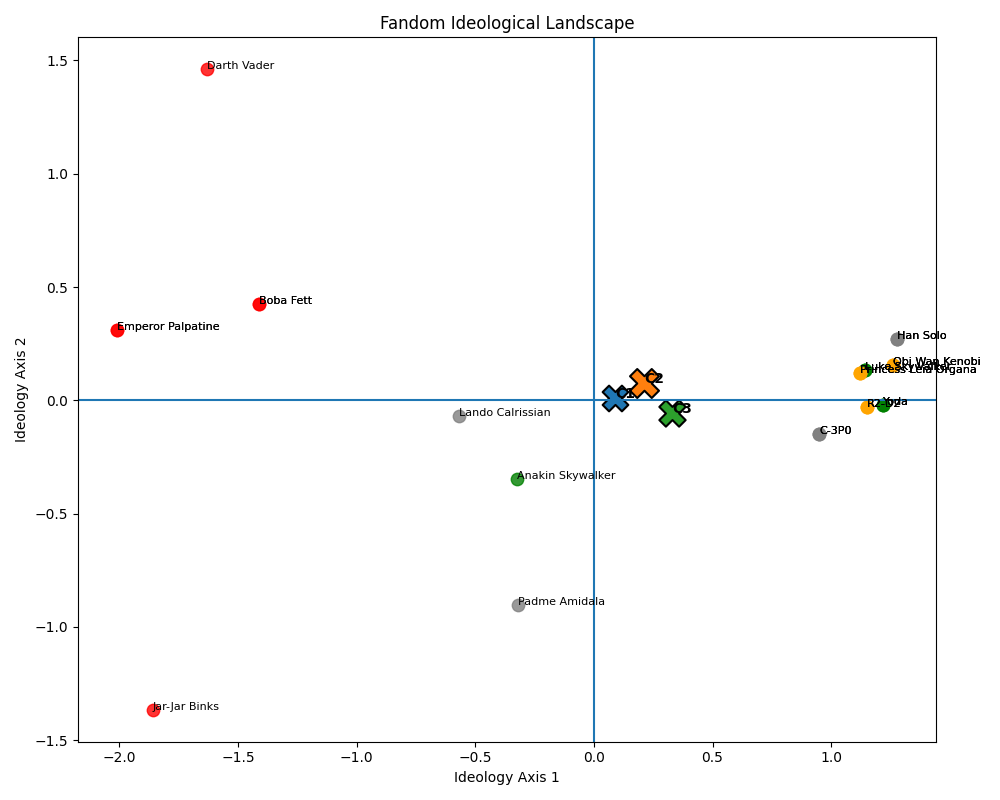
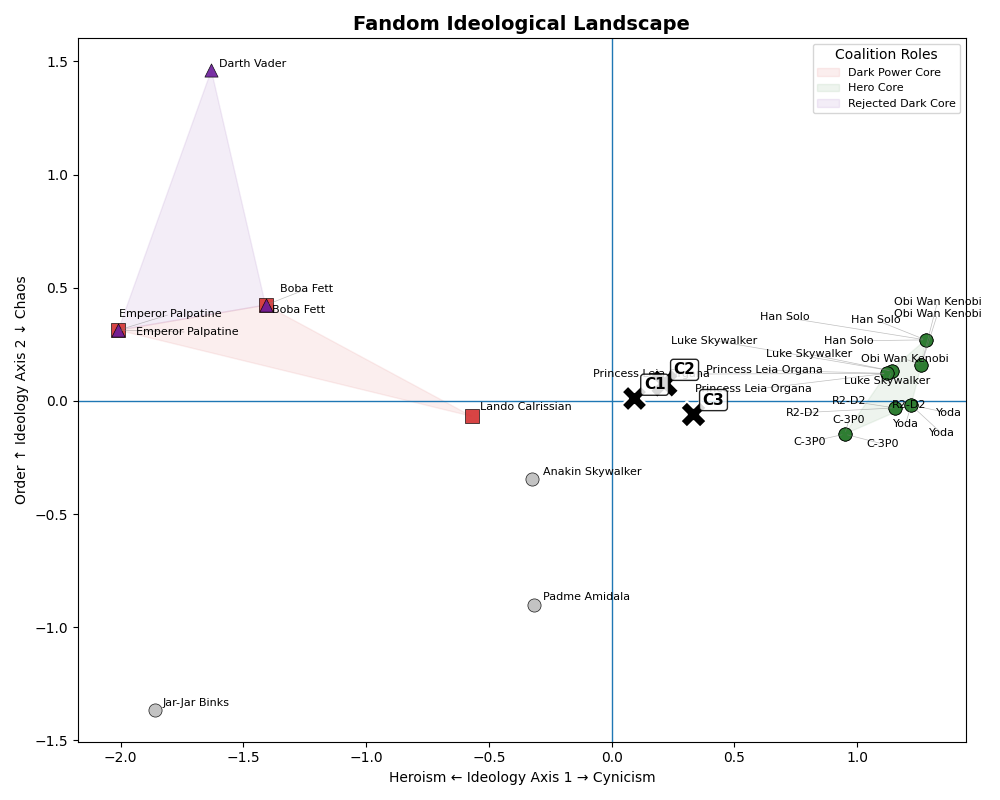
Doing 5.9.2

diff --git a/analysis/visualization/phase5_plots.py b/analysis/visualization/phase5_plots.py
@@ -6,6 +6,7 @@ import seaborn as sns
 import matplotlib.pyplot as plt
 from scipy.spatial import ConvexHull
 import numpy as np
+from adjustText import adjust_text
 
 
 from src.config import CHARACTER_RATING_COLUMNS
@@ -796,54 +797,106 @@ def plot_cluster_narrative_role_profiles(
     plt.savefig(output_path)
     plt.close()
 
-# analysis/visualization/phase5_plots.py
-
-import matplotlib.pyplot as plt
-
 
 def plot_fandom_ideology_map(
     df,
     output_path,
+    alignment_matrix=None,
 ):
+
     fig, ax = plt.subplots(figsize=(10, 8))
 
     # -------------------------
-    # Role colors (characters)
+    # Coalition colors
     # -------------------------
-    role_colors = {
-        "narrative_lightning_rod": "red",
-        "narrative_consensus": "green",
-        "narrative_catalyst": "orange",
-        "background_supporting_character": "gray",
-        None: "gray",
+    coalition_colors = {
+        "Hero Core": "#2E7D32",
+        "Pragmatic Hero Bloc": "#66BB6A",
+        "Mythic Hero Core": "#1B5E20",
+
+        "Dark Power Core": "#D32F2F",
+        "Contested Dark Core": "#F57C00",
+        "Rejected Dark Core": "#6A1B9A",
+
+        "Narrative Middle Ground": "#9E9E9E",
+        "Complex / Divided Field": "#8E24AA",
+        "Low-Engagement Field": "#90A4AE",
+
+        None: "#BDBDBD",
     }
 
-    # -------------------------
-    # Plot characters
-    # -------------------------
+    marker_map = {
+        "Hero Core": "o",
+        "Pragmatic Hero Bloc": "o",
+        "Mythic Hero Core": "o",
+
+        "Dark Power Core": "s",
+        "Contested Dark Core": "D",
+        "Rejected Dark Core": "^",
+    }
+
     char_df = df[df["entity_type"] == "character"]
+    cluster_df = df[df["entity_type"] == "audience_cluster"]
+
+    # ==========================================================
+    # Coalition regions
+    # ==========================================================
+    for role, group in char_df.groupby("coalition_role"):
+
+        if role is None or len(group) < 3:
+            continue
+
+        points = group[["ideology_axis_1", "ideology_axis_2"]].values
+
+        try:
+            hull = ConvexHull(points)
+            hull_points = points[hull.vertices]
+
+            ax.fill(
+                hull_points[:, 0],
+                hull_points[:, 1],
+                alpha=0.08,
+                color=coalition_colors.get(role, "#ccc"),
+                label=role,
+                zorder=1,
+            )
+        except:
+            continue
+
+    # ==========================================================
+    # Plot characters
+    # ==========================================================
+    texts = []  # collect labels for adjustment
 
     for _, row in char_df.iterrows():
+        color = coalition_colors.get(row["coalition_role"], "#BDBDBD")
+        marker = marker_map.get(row["coalition_role"], "o")
+
         ax.scatter(
             row["ideology_axis_1"],
             row["ideology_axis_2"],
-            color=role_colors.get(row["narrative_role"], "gray"),
-            s=80,
-            alpha=0.8,
+            color=color,
+            s=90,
+            marker=marker,
+            edgecolor="black",
+            linewidth=0.5,
+            alpha=0.9,
+            zorder=3,
         )
 
-        ax.text(
+        # store text (no offset!)
+        txt = ax.text(
             row["ideology_axis_1"],
             row["ideology_axis_2"],
             row["entity_id"],
             fontsize=8,
+            zorder=6,
         )
+        texts.append(txt)
 
-    # -------------------------
-    # Plot clusters
-    # -------------------------
-    cluster_df = df[df["entity_type"] == "audience_cluster"]
-
+    # ==========================================================
+    # Plot clusters (keep clean boxed labels)
+    # ==========================================================
     for _, row in cluster_df.iterrows():
         size = 200 + (row["hero_core_dominance"] or 0) * 50
 
@@ -852,27 +905,124 @@ def plot_fandom_ideology_map(
             row["ideology_axis_2"],
             marker="X",
             s=size,
-            edgecolor="black",
+            color="black",
+            edgecolor="white",
             linewidth=1.5,
+            zorder=5,
         )
 
         ax.text(
-            row["ideology_axis_1"],
-            row["ideology_axis_2"],
+            row["ideology_axis_1"] + 0.04,
+            row["ideology_axis_2"] + 0.04,
             f"C{int(row['entity_id'])}",
-            fontsize=10,
+            fontsize=11,
             weight="bold",
+            color="black",
+            bbox=dict(
+                facecolor="white",
+                edgecolor="black",
+                boxstyle="round,pad=0.2",
+                alpha=0.85,
+            ),
+            zorder=7,
         )
 
-    # -------------------------
-    # Axes
-    # -------------------------
-    ax.axhline(0)
-    ax.axvline(0)
+    # ==========================================================
+    # Attraction / Rejection vectors
+    # ==========================================================
+    if alignment_matrix is not None:
 
-    ax.set_xlabel("Ideology Axis 1")
-    ax.set_ylabel("Ideology Axis 2")
-    ax.set_title("Fandom Ideological Landscape")
+        for _, cluster in cluster_df.iterrows():
+
+            cluster_id = cluster["entity_id"]
+
+            if cluster_id not in alignment_matrix.index:
+                continue
+
+            scores = alignment_matrix.loc[cluster_id]
+
+            top_chars = scores.nlargest(2).index
+            bottom_chars = scores.nsmallest(1).index
+
+            for char in top_chars:
+                target = char_df[char_df["entity_id"] == char]
+                if target.empty:
+                    continue
+
+                ax.annotate(
+                    "",
+                    xy=(target.iloc[0]["ideology_axis_1"], target.iloc[0]["ideology_axis_2"]),
+                    xytext=(cluster["ideology_axis_1"], cluster["ideology_axis_2"]),
+                    arrowprops=dict(
+                        arrowstyle="->",
+                        color="green",
+                        lw=2,
+                        alpha=0.6,
+                        shrinkA=10,
+                        shrinkB=10,
+                    ),
+                    zorder=2,
+                )
+
+            for char in bottom_chars:
+                target = char_df[char_df["entity_id"] == char]
+                if target.empty:
+                    continue
+
+                ax.annotate(
+                    "",
+                    xy=(target.iloc[0]["ideology_axis_1"], target.iloc[0]["ideology_axis_2"]),
+                    xytext=(cluster["ideology_axis_1"], cluster["ideology_axis_2"]),
+                    arrowprops=dict(
+                        arrowstyle="->",
+                        color="red",
+                        lw=2,
+                        linestyle="dashed",
+                        alpha=0.6,
+                        shrinkA=10,
+                        shrinkB=10,
+                    ),
+                    zorder=2,
+                )
+
+    # ==========================================================
+    # Axes & styling
+    # ==========================================================
+    ax.axhline(0, linewidth=1)
+    ax.axvline(0, linewidth=1)
+
+    ax.set_xlabel("Heroism ← Ideology Axis 1 → Cynicism")
+    ax.set_ylabel("Order ↑ Ideology Axis 2 ↓ Chaos")
+
+    ax.set_title("Fandom Ideological Landscape", fontsize=14, weight="bold")
+
+    handles, labels = ax.get_legend_handles_labels()
+    by_label = dict(zip(labels, handles))
+
+    ax.legend(
+        by_label.values(),
+        by_label.keys(),
+        title="Coalition Roles",
+        fontsize=8,
+    )
+
+    # ==========================================================
+    # AUTO-ADJUST LABELS (THE KEY UPGRADE)
+    # ==========================================================
+    adjust_text(
+        texts,
+        ax=ax,
+        expand_points=(1.2, 1.4),
+        expand_text=(1.2, 1.4),
+        force_points=0.3,
+        force_text=0.5,
+        arrowprops=dict(
+            arrowstyle="-",
+            color="gray",
+            lw=0.5,
+            alpha=0.5,
+        ),
+    )
 
     plt.tight_layout()
     plt.savefig(output_path)

diff --git a/analysis/pipelines/phase5_6_interpretation_pipeline.py b/analysis/pipelines/phase5_6_interpretation_pipeline.py
@@ -587,6 +587,7 @@ def step_591_build_fandom_ideology_dataset(
 
 def step_592_plot_fandom_ideology_map(
     df: pd.DataFrame,
+    alignment_matrix,
 ) -> None:
 
     print("\n=== 5.9.2 Fandom Ideology Map (Enriched) ===")
@@ -599,6 +600,7 @@ def step_592_plot_fandom_ideology_map(
 
     plot_fandom_ideology_map(
         df=df,
+        alignment_matrix=alignment_matrix,
         output_path=path,
     )
 
@@ -754,5 +756,8 @@ def run_phase5_6(clean_dataset: pd.DataFrame) -> None:
     narrative_intensity=narrative_intensity,
 )
 
-    step_592_plot_fandom_ideology_map(fandom_map_df)
+    step_592_plot_fandom_ideology_map(
+        fandom_map_df,
+        alignment_matrix=alignment_matrix,  # NEW
+    )
 
